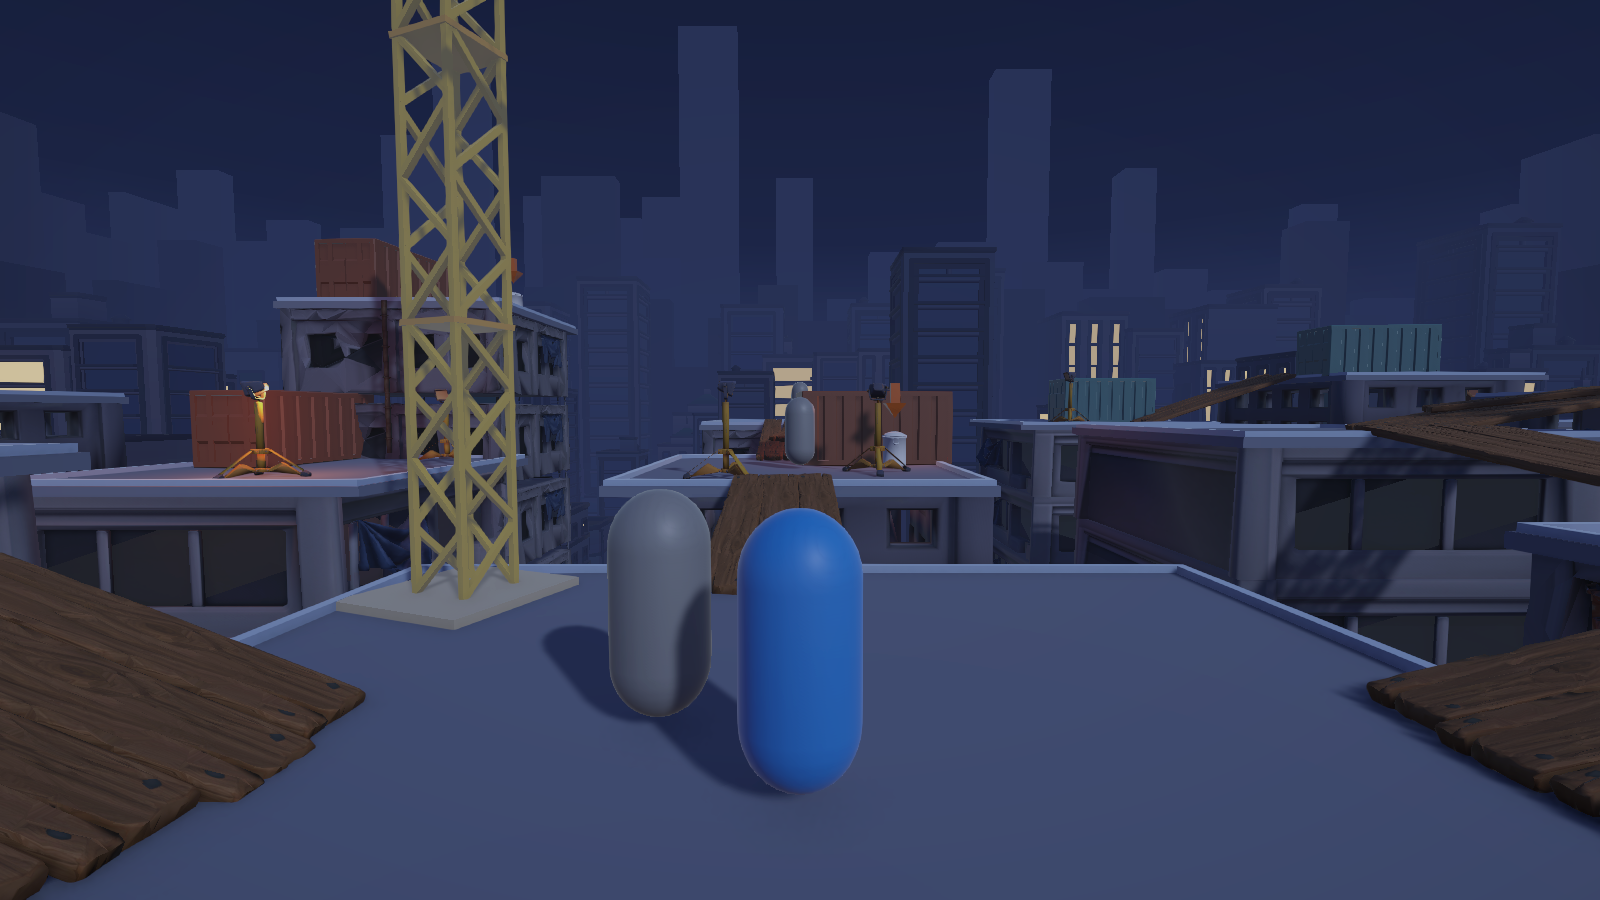
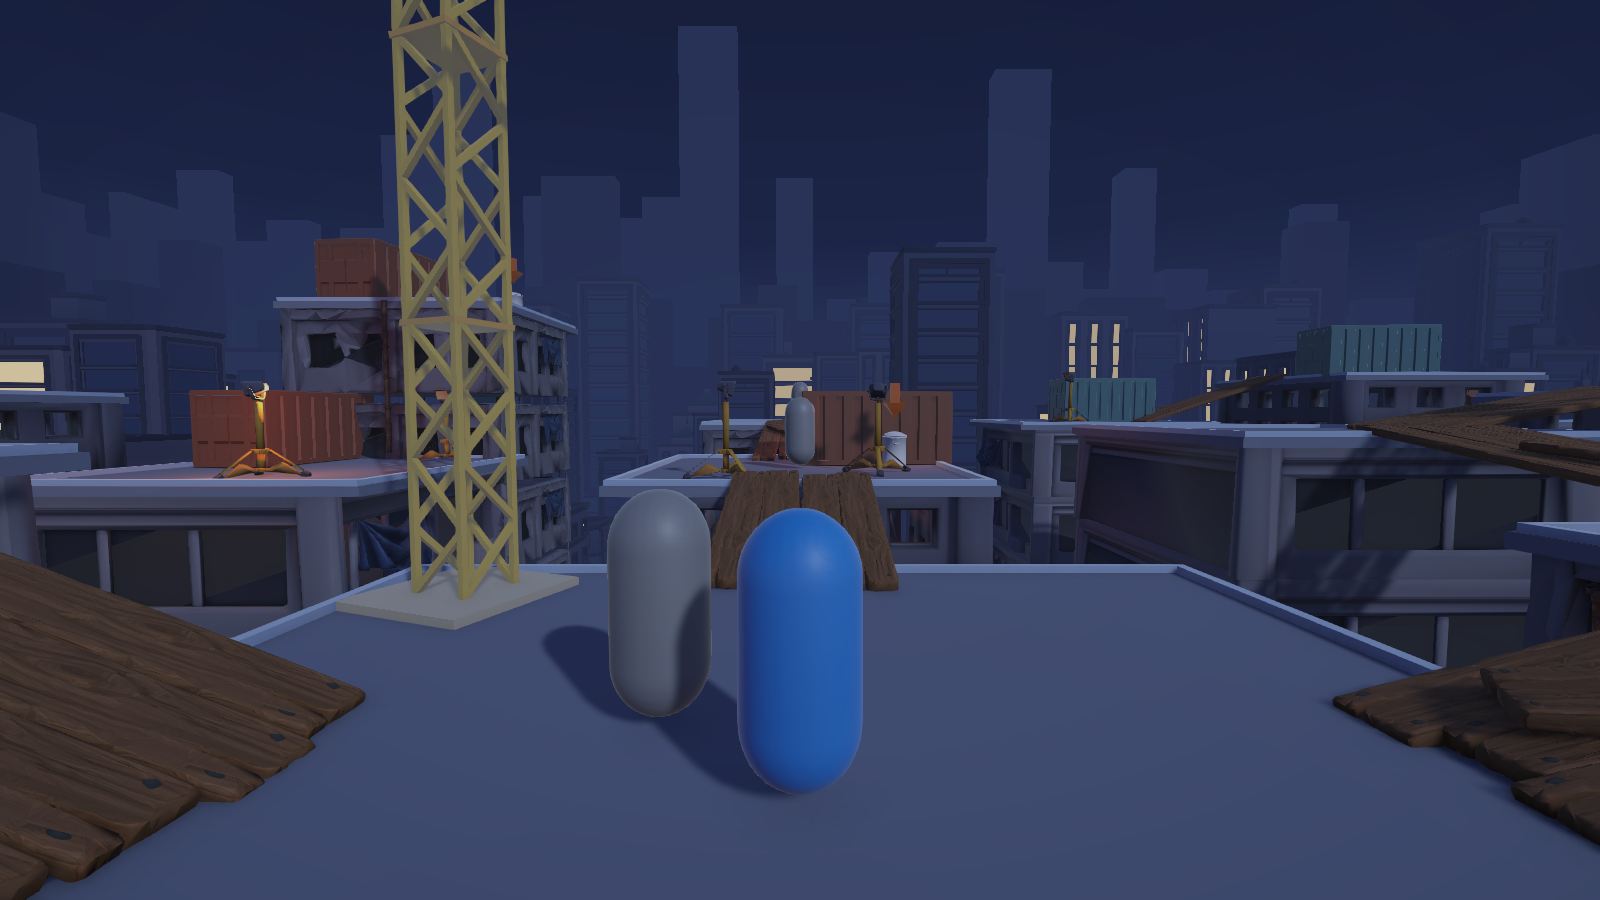
docs: add README, move specs to docs/, drop stray hook dump
Pass 4 of the review cleanup:

- Root README.md: game pitch, how to open/build (Unity 6000.5.3f1,
  RooftopTag > Build Rooftop Arena, Builds/ output), how to run tests
  (Test Runner or Tools/selfplay.sh), asset-credit pointers.
- MOVEMENT_TEST_CHECKLIST.md and NET_CATCH_SPEC.md moved to docs/
  (checklist's Unity .meta dropped with it).
- Delete dev/null/ — git hooks accidentally written to a literal
  "dev/null" path by a script redirect.

Verified: 0 console errors, warning set identical to baseline,
SelfPlayTests pass, arena screenshots unchanged bar regeneration noise.

diff --git a/docs/MOVEMENT_TEST_CHECKLIST.md b/docs/MOVEMENT_TEST_CHECKLIST.md
@@ -1,0 +1,87 @@
+# Movement Feel Checklist
+
+How to use: load an empty playground scene — no enemies, no objectives, no
+tag rules, just geometry to move through. Run through each section below as
+its own pass, doing the described action several times in a row. Check the
+box if it feels right; if not, write a one-line note next to it (what you
+did, what it felt like) instead of unchecking silently. This is a feel test,
+not a bug hunt — "technically works" that still feels bad is a FAIL.
+
+## 1. Responsiveness
+
+- [ ] Tap a direction key from standstill — character starts moving within a frame or two, no wind-up.
+- [ ] Press Shift to sprint mid-run — speed increases immediately, not on a delay.
+- [ ] Tap Space — jump fires on the same frame as landing, not a beat later.
+- [ ] Change direction while running — character reorients without a canned turn animation locking input.
+- [ ] Mash Ctrl repeatedly while running — every press slides or crouches, none get eaten.
+- [ ] Press E at a ledge/wall/rope — the context action triggers without a noticeable pause to "decide."
+- [ ] Release all keys mid-sprint — character decelerates naturally, doesn't snap to idle.
+
+## 2. Flow & transitions
+
+- [ ] Run into a slide (Ctrl) then hop out of it (slide-hop) — one continuous motion, no stutter-step.
+- [ ] Vault a low obstacle while sprinting — you land already running, no re-acceleration from zero.
+- [ ] Grab a chain-swing, release at the top, land, and keep running — no dead stop on landing.
+- [ ] Wall-hook off a wall mid-air, then jump-launch — launch direction/speed feels like a continuation, not a reset.
+- [ ] Climb a ladder/pipe to the top and immediately run off the top — no frozen "climb-exit" beat.
+- [ ] Chain vault -> slide -> jump back-to-back — no forced idle frame between any two actions.
+- [ ] Mantle onto a ledge and immediately sprint — no awkward stand-up-then-wait delay.
+
+## 3. Momentum
+
+- [ ] Sprint in a straight line for several seconds — speed visibly builds, doesn't just snap to max.
+- [ ] Slide down a slope — speed increases the longer the slope, doesn't cap out like flat-ground slide.
+- [ ] Slide on flat ground — speed bleeds off gradually, doesn't stop dead.
+- [ ] Turn sharply while sprinting — you keep most of your speed and carry it into the new direction.
+- [ ] Jump while sprinting then hold a direction — trajectory reflects run speed, doesn't float like a standing jump.
+- [ ] Commit-dive/lunge from a run — the dive carries forward momentum from the run, not launched from a standstill feel.
+- [ ] Bunny-hop by jumping right as you land — speed stacks slightly instead of resetting every hop.
+- [ ] Come to a stop and re-accelerate — no "sticky" first-step drag before you're back up to speed.
+
+## 4. Forgiveness
+
+- [ ] Walk off a ledge and press jump a few frames late — coyote time still lets you jump.
+- [ ] Press jump slightly before landing — jump buffers and fires right on landing, not ignored.
+- [ ] Approach a ledge at a slight angle or off-center — vault/mantle still triggers, doesn't require pixel-perfect alignment.
+- [ ] Attempt a slide-hop with imperfect timing (a few frames early/late) — it still cancels into the hop.
+- [ ] Reach for a wall-hook slightly off-angle mid-air — grab still connects.
+- [ ] Go for a double-jump (as a runner) with a slightly late second press — it still registers.
+- [ ] Grab a chain-swing while approaching from an imperfect angle — grab still connects, doesn't whiff.
+
+## 5. Readability
+
+- [ ] Run at a knee-high ledge repeatedly — it's always a vault, never randomly a mantle or climb.
+- [ ] Run at a chest-high ledge repeatedly — it's always a mantle/climb, never a vault.
+- [ ] Approach the same slope at the same speed multiple times — behavior (run-up vs slide vs block) is consistent every time.
+- [ ] Run off the same edge repeatedly — same result every time (drop, vault, etc.), no random variation.
+- [ ] Explicit E-press vault vs automatic running vault — both produce the same recognizable animation/outcome.
+- [ ] Approach a wall at the same speed/angle repeatedly — wall-hook grab triggers (or doesn't) consistently.
+
+## 6. Physical feedback
+
+- [ ] Sprint to top speed — FOV visibly widens as speed increases, narrows back down when slowing.
+- [ ] Fall from a large height and land — camera shake kicks in, scaled to fall height (small drop = little/no shake).
+- [ ] Drop from a small height and land — no exaggerated shake for a trivial landing.
+- [ ] Slide (Ctrl) — camera dips/FOV kicks noticeably at the start of the slide.
+- [ ] Hard-land from a big fall — a roll or heavier landing animation plays, doesn't just stick the landing silently.
+- [ ] Chain several feedback triggers back to back (land, slide, land) — effects don't stack into a jittery mess.
+
+## 7. Skill expression
+
+- [ ] Run a route cleanly (vault/slide/swing chained with good timing) vs sloppily (stopping between each) — the clean run is noticeably faster.
+- [ ] Chain vault -> slide -> swing without stopping — speed carries through all three, doesn't reset at each transition.
+- [ ] Time a slide-hop well vs poorly — good timing gives a clear speed/height bonus over a mistimed one.
+- [ ] Mistime a jump or grab — you can still recover (double-jump, wall-hook, scramble) instead of being punished with a hard stop.
+- [ ] Use bunny-hopping deliberately on a straightaway — an attentive player is visibly faster than one who just holds sprint.
+- [ ] Take a "sloppy" alternate path around an obstacle instead of vaulting it — it costs visible time/speed vs the skilled route.
+
+## Feel regression watch
+
+Any of these showing up is a sign tuning has regressed, even if nothing is
+technically "broken":
+
+- [ ] Vault/mantle/climb feels like hitting molasses — a beat of dead time before or after the action.
+- [ ] Sliding on flat ground triggers off of a plain walk, not a deliberate Ctrl press.
+- [ ] Turning around while sprinting briefly stops or stutters you instead of just redirecting momentum.
+- [ ] Camera jitters or judders during normal turning/orbiting, not just during shake events.
+- [ ] Can't maintain speed running up a ramp that should be climbable at a run.

diff --git a/docs/NET_CATCH_SPEC.md b/docs/NET_CATCH_SPEC.md
@@ -1,0 +1,62 @@
+# Net-Catch Spec — pest-control net throw (supersedes the "tagging = lunge only" catch presentation)
+
+The ranged catch is a **thrown bug net** (Animal Crossing style: wooden pole, blue cord grip,
+orange stitched-rim hoop, cream mesh bag). The committed-dive contact tag stays; the old instant
+ranged hand-tag is replaced by the throw.
+
+## Mechanic
+
+- **Carry**: every Tagger visibly carries the net in their right hand (attach to the humanoid
+  right-hand bone; root-offset fallback for the headless capsule).
+- **Throw** (right-click / gamepad left trigger, and the bot AI's ranged attempt): windup
+  (`netWindupSeconds`) → ballistic flight (`netFlightTime`) to a lead-predicted landing point →
+  resolve. Self-gating like TryLunge (timescale, countdown, grace, dive-lock) plus its own
+  `netThrowCooldown`.
+- **Target acquisition**: nearest opposing runner within `netThrowRange`, roughly ahead
+  (dot > 0.3), passing the same vertical-band + line-of-sight gate as the old ranged tag
+  (`TagAgent.HasTagLineOfSight`). No target → blind throw, always a miss.
+- **Hit**: trap dome (hoop + tented net) drops over the victim; victim is input-frozen and
+  struggles under it for `netTrapDuration`; then the *existing* tag flow runs unchanged
+  (conversion + grace, or round-end/kill-cam for the local player).
+- **Miss / dodge QTE**: a net released at the LOCAL player opens the existing clutch-dodge
+  slow-mo window with duration = `netFlightTime` (same ring HUD, same LMB resolve). Dodge →
+  escape roll fires, net slams the empty ground (lingers ~2 s), tagger eats `taggerWhiffLockout`.
+  Bots get no QTE — their dive i-frames already auto-whiff a landing net.
+
+## Where things live (architecture contract)
+
+| Piece | File | Assembly |
+|---|---|---|
+| Net + trap-dome procedural meshes | `Assets/Scripts/Rules/Runtime/NetVisual.cs` | Game.Rules |
+| Throw state machine + resolution | `Assets/Scripts/Rules/Runtime/NetThrower.cs` (added by TagAgent.Configure — no bootstrap wiring) | Game.Rules |
+| Tuning (all of it) | `TagRulesConfig` "Net throw" header: `netThrowRange`, `netThrowCooldown`, `netWindupSeconds`, `netFlightTime`, `netHitRadius`, `netTrapDuration`, `netCarryVisible` | Game.Rules |
+| QTE routing | `RoundController` dodge region (`NetThrower.NetThrownAtPlayer` static event → `BeginDodgeWindowInternal`) | Game.Rules |
+| Throw animation (procedural additive right-arm windup/whip in LateUpdate — no clip needed) | `CharacterAnimatorBridge.BeginThrow/ReleaseThrow` | Game.Movement (stays Rules-agnostic) |
+| Bot usage | `ParkourBotInput` tagger block calls `agent.Net?.TryThrow()` every tick (self-gating) | Game.AI |
+
+Sim (FixedUpdate: windup/flight/hit resolution) is separated from presentation (Update/LateUpdate:
+carried net, projectile tumble, trap wiggle, arm swing) — net-throw outcomes must stay identical
+headless.
+
+## Agentic verification loops (run after ANY change to this feature)
+
+1. **Compile/console**: recompile via MCP, zero errors, zero new warnings.
+2. **Editor smoke test**: `NetVisual.BuildNet` + `BuildTrapDome` via execute_code, screenshot,
+   eyeball against the AC reference (pole/grip/hoop/bag all present, nothing magenta, dome tents
+   UP not through the floor).
+3. **PlayMode tests**: full TagRulesTests group green (modulo known pre-existing failures logged
+   in TUNING_LOG.md). Contact-tag, grace, and dodge tests must stay green — the net must never
+   change committed-dive behavior.
+4. **Play-mode scenario**: enter play in RooftopArena; verify (a) taggers visibly carry nets,
+   (b) a bot throw produces windup → arc → trap dome or ground-slam, (c) local-player targeting
+   opens the slow-mo ring and LMB dodge rolls clear, (d) console clean. Screenshot each.
+5. **Self-playtest**: bot-only match; check tag distribution still lands in target bands and that
+   net throws (not only dive contacts) account for a healthy share of conversions. Trap freeze
+   adds ~`netTrapDuration` per catch — watch stuck-detection metrics for false positives.
+
+## Tuning guidance
+
+- `netFlightTime` IS the local player's reaction window — shorten it and the QTE gets harder;
+  keep it ≥ the dodge-window floor (`dodgeWindowFloor`).
+- `netThrowCooldown` > `netTrapDuration` or overlapping traps get weird.
+- The throw replaces the hand-tag, so `tagReachStill/Moving` now only matter for the contact dive.

diff --git a/README.md b/README.md
@@ -1,0 +1,35 @@
+# RooftopTag
+
+Third-person tag across the rooftops of a night-time construction-site city. You play a raccoon
+runner being hunted by net-swinging pest-control taggers: sprint, climb, dive-roll, ride crane
+swings and kick over trash cans to break line of sight, while bot runners and taggers play the
+same game around you. Get caught and a kill-cam replays the moment; outlast the round to win.
+The arena, the backdrop city and all dressing are 100% procedurally generated — the scene file
+is a build artifact, not hand-authored content.
+
+## Opening the project
+
+- Unity **6000.5.3f1** (URP). Open the repo root as the project.
+- The playable scene is `Assets/Scenes/RooftopArena.unity`. Never edit it by hand — regenerate it
+  with the menu item **RooftopTag → Build Rooftop Arena** (editor must be idle, not in Play mode).
+
+## Building a player
+
+**RooftopTag → Build → Windows x64 (Development)** or **(Release)**. Output lands in `Build/`.
+
+## Running the tests
+
+PlayMode tests live in `Assets/Tests/PlayMode` (movement metrics, tag rules, parkour graph,
+prop clearance, kill-cam, bot self-play). Run them from Unity's Test Runner, or headless:
+
+```bash
+Tools/selfplay.sh   # bot-only self-play batch; prints METRIC lines, writes Tools/selfplay-results.xml
+```
+
+## Asset credits
+
+Third-party art and audio keep their licenses next to the assets:
+`Assets/Art/Kenney/*/License.txt` (Kenney city/vehicle/prop kits, CC0),
+`Assets/Art/Quaternius/Clouds/License.txt`, `Assets/Art/Construction/*/License.txt`,
+and `Assets/Audio/ATTRIBUTION.md` for the ambience track. Character and building models are
+project-generated. See `docs/` for design notes and specs.